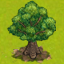
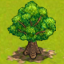
More flora, more beauty

diff --git a/Kingdom4/src/game/GameEngine.java b/Kingdom4/src/game/GameEngine.java
@@ -20,40 +20,40 @@ public class GameEngine extends Observable {
     private final char[][] world =
     		{
                 {'(','-','-','-','-','-','-','-','-','-','-','-','-','-','-','-','-','-','-','-','-','-','-','-','-','-','-','+','R','r',' ','Z'},
-                {'@',' ','Z','Y',' ',' ','Y','X',' ',' ','Z',' ',' ',' ',' ',' ','X',' ',' ','Y',' ','X',' ',' ',' ','Z',' ',' ','R','r','X',' '},
-                {'@',' ',' ','X',' ',' ','X',' ',' ',' ',' ','M','N',' ','Y',' ',' ',' ',' ',' ',' ',' ',' ',' ',' ',' ',' ','X','R','r','Y','X'},
-                {'@',' ',' ',' ',' ',' ',' ','Z',' ',' ',' ','O','P',' ',' ',' ','Z','I','J',' ','X','X',' ',' ',' ',' ','A','/','R','r',' ',' '},
-                {'@',' ',' ',' ','Z',' ',' ',' ',' ',' ',' ','a','c',' ',' ',' ',' ','K','L',' ','X','X','X',' ',' ','X','C','D','R','r',' ',' '},
-                {'@',' ',' ',' ','Z','Z',' ',' ',' ','X',' ',' ','g',' ',' ',' ',' ','g',' ','X','X','Y',' ',' ',' ','3','g','$','R','r','Y',' '},
-                {'@','X','X',' ',' ',' ','X',' ',' ',' ',' ',' ','g','X',' ',' ',' ','g',' ',' ','h','f','f','f','f','f','j',' ','R','r',' ','X'},
-                {'@','Y','X',' ',' ',' ','Y','X','X',' ',' ','Y','g',' ',' ',' ','X','g',' ','Z','g',' ',' ',' ',' ',' ',' ','Y','R','r',' ','X'},
-                {'@',' ',' ','X',' ',' ','E','F',' ',' ',' ',' ','m','f','f','f','f','l','f','f','o',' ','X','X',' ',' ','Z',' ','R','r','X','X'},
-                {'@',' ','X','X',' ',' ','G','H',' ',' ',' ',' ','g',' ',' ',' ',' ',' ',' ',' ','g','Y','X',' ',' ',' ',' ',' ','R','r',' ','Z'},
-                {'@',' ',' ',' ',' ',' ',' ','g','Z',' ',' ',' ','g',' ',' ','Z','Y','X',' ',' ','g',' ','Z',' ',' ',' ',' ',' ','R','r',' ',' '},
-                {'@','Z',' ',' ',' ',' ',' ','k','f','f','f','f','o',' ','X','X','X','Y',' ',' ','g',' ',' ',' ',' ',' ',' ',' ','R','r',' ',' '},
-                {'@',' ',' ',' ',' ',' ',' ',' ',' ',' ','X',' ','g',' ',' ','X','X',' ',' ',' ','g',' ',' ',' ','X',' ',' ',' ','R','r',' ',' '},
-                {'@','X','X',' ',' ',' ','X',' ',' ',' ',' ',' ','g',' ',' ',' ','X','X',' ',' ','g',' ',' ','Y','X',' ',' ','X','R','r',' ',' '},
-                {'@','X','Y',' ',' ',' ',' ',' ',' ',' ',' ',' ','g',' ','X','X',' ',' ','h','f','j',' ',' ',' ',' ',' ',' ','Z','R','r',' ',' '},
-                {'@',' ','Y',' ','Z','X','X','V','W',' ',' ',' ','g',' ',' ','X',' ',' ','g',' ','X','X',' ',' ',' ',' ',' ',' ','R','r','X',' '},
-                {'@',' ',' ',' ',' ','X','X','%','#',' ',' ',' ','g',' ',' ',' ',' ',' ','g','Y',' ',' ',' ',' ',' ',' ',' ','X','R','r','Y',' '},
-                {'@',' ',' ',' ',' ',' ','4','g','X','X','Z','Z','g','Z','Z',' ',' ','Z','g',' ',' ',' ',' ',' ',' ','Z',' ',' ','R','r',' ','Z'},
-                {'@',' ',' ',' ',' ',' ',' ','g',' ','Y','Z','h','l','i','Z',' ',' ','X','g','Z',' ',' ','X',' ',' ',' ','X',' ','R','r',' ','Z'},
-                {'@','Z','Q','S','X','X','Y','m','f','f','f','o','p','m','f','f','f','f','j','Y',' ',' ','Z',' ',' ',' ',' ','X','R','r','Y',' '},
+                {'@',' ','Z','Y','z',' ','Y','x',' ',' ','Z',' ',' ',' ',' ',' ','x','z',' ','Y',' ','X',' ','z',' ','Z',' ',' ','R','r','X',' '},
+                {'@',' ',' ','X',' ',' ','X',' ',' ',' ',' ','M','N',' ','Y',' ',' ','z',' ',' ',' ',' ',' ',' ',' ',' ',' ','x','R','r','Y','X'},
+                {'@',' ',' ',' ',' ',' ',' ','Z',' ',' ',' ','O','P',' ',' ',' ','Z','I','J',' ','X','x','z',' ',' ',' ','A','/','R','r','z',' '},
+                {'@','z',' ',' ','Z',' ',' ',' ',' ',' ',' ','a','c','z',' ',' ',' ','K','L',' ','x','x','X',' ','y','X','C','D','R','r',' ',' '},
+                {'@',' ',' ',' ','Z','Z',' ',' ',' ','X',' ',' ','g',' ',' ',' ',' ','g',' ','X','x','Y',' ',' ',' ','3','g','$','R','r','Y',' '},
+                {'@','X','x',' ',' ','z','X',' ',' ',' ',' ',' ','g','x',' ',' ',' ','g',' ',' ','h','f','f','f','f','f','j',' ','R','r',' ','X'},
+                {'@','Y','X','z',' ',' ','Y','x','X',' ',' ','Y','g',' ',' ',' ','X','g',' ','Z','g',' ',' ',' ',' ',' ','z','Y','R','r',' ','X'},
+                {'@',' ',' ','x',' ',' ','E','F',' ',' ',' ',' ','m','f','f','f','f','l','f','f','o',' ','X','X',' ',' ','Z',' ','R','r','X','X'},
+                {'@',' ','X','x',' ',' ','G','H',' ',' ',' ',' ','g',' ',' ',' ',' ',' ',' ',' ','g','Y','X',' ',' ',' ',' ',' ','R','r',' ','Z'},
+                {'@',' ',' ',' ',' ',' ',' ','g','Z',' ','z',' ','g',' ',' ','Z','Y','x',' ',' ','g',' ','Z','z',' ',' ',' ',' ','R','r',' ',' '},
+                {'@','Z',' ',' ',' ',' ',' ','k','f','f','f','f','o','z','x','X','x','Y',' ',' ','g',' ',' ',' ',' ',' ',' ',' ','R','r',' ',' '},
+                {'@',' ','z',' ',' ',' ',' ',' ',' ',' ','X',' ','g',' ',' ','X','x',' ',' ',' ','g','z',' ',' ','X',' ',' ',' ','R','r','z',' '},
+                {'@','X','X',' ',' ',' ','X',' ',' ',' ',' ',' ','g',' ',' ',' ','X','X',' ',' ','g',' ',' ','Y','x',' ','z','X','R','r',' ',' '},
+                {'@','x','Y',' ',' ',' ',' ',' ',' ','z','z',' ','g',' ','X','x',' ',' ','h','f','j',' ',' ',' ',' ',' ',' ','Z','R','r',' ',' '},
+                {'@','z','Y',' ','Z','x','X','V','W',' ',' ',' ','g',' ','z','x',' ',' ','g',' ','X','X',' ',' ',' ',' ',' ',' ','R','r','X',' '},
+                {'@',' ',' ',' ',' ','X','x','%','#',' ',' ',' ','g',' ',' ',' ',' ',' ','g','Y',' ',' ',' ',' ',' ',' ',' ','X','R','r','Y',' '},
+                {'@',' ',' ',' ',' ','z','4','g','X','x','Z','Z','g','Z','Z',' ',' ','Z','g',' ','z',' ',' ',' ',' ','Z',' ',' ','R','r',' ','Z'},
+                {'@',' ',' ',' ',' ',' ',' ','g',' ','Y','Z','h','l','i','Z',' ',' ','X','g','Z','z',' ','X',' ',' ',' ','x',' ','R','r',' ','z'},
+                {'@','Z','Q','S','X','y','Y','m','f','f','f','o','p','m','f','f','f','f','j','Y',' ',' ','Z',' ',' ',' ',' ','x','R','r','Y',' '},
                 {'@',' ','T','U','2',' ',' ','g',' ',' ','Z','k','n','j','Z',' ',' ',' ',' ',' ',' ','E','F',' ',' ',' ',' ',' ','R','r',' ',' '},
-                {'@',' ',' ','g',' ',' ',' ','g',' ',' ','Z','Z','g','Z','Z',' ',' ',' ','X',' ',' ','G','H',' ',' ',' ','X',' ','R','r',' ',' '},
+                {'@',' ',' ','g',' ',' ',' ','g',' ',' ','Z','Z','g','Z','Z',' ',' ','z','X',' ',' ','G','H',' ',' ',' ','X',' ','R','r',' ',' '},
                 {'@','X',' ','k','f','f','f','j',' ','I','J','X','g',' ',' ',' ',' ',' ',' ',' ',' ',' ','g',' ',' ',' ',' ',' ','R','r',' ','X'},
-                {'@','Z','X',' ','X','Y','X','Y',' ','K','L',' ','g',' ',' ','Y',' ',' ',' ','X','Y',' ','g',' ',' ',' ','Z','Z','R','r',' ','X'},
-                {'@','X','X','Z',' ','X','X','X','X','g',' ',' ','g',' ',' ',' ',' ',' ',' ',' ','X','Z','g','Z',' ',' ','Z','Y','R','r','Z',' '},
-                {'@','Y',' ','X',' ','X','X',' ','Y','k','f','f','l','f','f','f','f','f','f','f','f','f','l','f','f','f','f','1','B','b','f','f'},
-                {'@','X',' ',' ',' ','Z',' ',' ',' ','X',' ','X',' ',' ',' ',' ',' ',' ',' ',' ',' ',' ',' ',' ',' ',' ',' ',' ','R','r',' ','X'},
-                {'@','Z','X',' ','X','X','X','Y','X','X','Z','X',' ',' ',' ','Y',' ',' ','Z','X','X',' ',' ',' ',' ',' ','X','Z','R','r',' ','Y'},
-                {'@','X','X','Z','Y','Y','X','X',' ',' ',' ','Y','X','X','Y','X',' ',' ',' ',' ',' ',' ',' ',' ',' ',' ','X','Y','R','r','Z','Z'},
-                {'@','Y','X','X',' ',' ',' ','Z','X','X',' ',' ',' ','Z','X','Y','Z',' ',' ',' ',' ',' ',' ','Z',' ',' ',' ','Y','R','r',' ',' '},
-                {'@','!','X','X',' ','X','Z','X',' ','Y','X','Y','X','Z','X','X','X',' ',' ',' ',' ',' ',' ',' ',' ',' ',' ',' ','R','r',' ',' '},
-                {'@',' ',' ','X',' ','X','Z',' ',' ','Z','Z','Z','X','Y',' ','X',' ','Z',' ',' ',' ','Y','Z','X',' ',' ',' ',' ','R','r',' ','X'},
-                {'@','X',' ',' ','Z','X','X','Y',' ','X',' ','X','X','Z',' ',' ','X','Z','X',' ','Z','X',' ',' ','Z',' ','Y','X','R','r','X','X'},
-                {'@','X','X','X','X','X','X','Z',' ','X',' ',' ',' ',' ','Y',' ',' ',' ','X',' ',' ','X',' ',' ',' ','§','Y','X','R','r','X','X'},
-                {')','=','=','=','=','=','=','=','=','=','=','=','=','=','=','=','=','=','=','=','=','=','=','=','=','=','=','&','R','r','X','X'}
+                {'@','Z','X',' ','x','Y','X','Y',' ','K','L',' ','g',' ',' ','Y',' ',' ',' ','x','Y',' ','g',' ',' ',' ','Z','Z','R','r',' ','x'},
+                {'@','x','x','Z',' ','x','X','x','X','g',' ',' ','g','z',' ',' ',' ',' ',' ',' ','X','Z','g','Z',' ',' ','z','Y','R','r','Z',' '},
+                {'@','y',' ','X',' ','X','X','z','Y','k','f','f','l','f','f','f','f','f','f','f','f','f','l','f','f','f','f','1','B','b','f','f'},
+                {'@','X',' ',' ',' ','Z',' ',' ',' ','X',' ','x',' ',' ',' ',' ',' ',' ',' ',' ',' ',' ',' ',' ',' ',' ',' ',' ','R','r',' ','X'},
+                {'@','Z','X',' ','X','X','x','Y','x','x','Z','X',' ',' ',' ','Y',' ',' ','Z','X','X',' ',' ',' ',' ',' ','x','Z','R','r',' ','Y'},
+                {'@','x','X','z','Y','Y','x','X',' ',' ','z','Y','X','X','Y','X',' ',' ',' ',' ',' ',' ',' ',' ',' ',' ','x','Y','R','r','z','Z'},
+                {'@','Y','x','X',' ',' ',' ','Z','X','x',' ',' ',' ','Z','x','Y','z',' ',' ',' ',' ',' ',' ','z',' ',' ',' ','Y','R','r',' ',' '},
+                {'@','!','x','x',' ','X','y','X',' ','Y','X','Y','X','Z','x','x','X',' ',' ',' ','z',' ',' ',' ',' ',' ',' ',' ','R','r',' ',' '},
+                {'@',' ',' ','X',' ','X','z',' ',' ','Z','z','Z','X','Y',' ','X',' ','Z',' ',' ',' ','Y','Z','X',' ',' ',' ',' ','R','r',' ','X'},
+                {'@','x',' ',' ','Z','x','X','Y',' ','X',' ','x','x','Z',' ',' ','X','Z','X',' ','Z','x',' ',' ','Z',' ','Y','X','R','r','X','x'},
+                {'@','X','x','X','x','x','X','Z',' ','X',' ','z',' ',' ','y',' ',' ',' ','x',' ',' ','X','y',' ',' ','§','Y','x','R','r','X','x'},
+                {')','=','=','=','=','=','=','=','=','=','=','=','=','=','=','=','=','=','=','=','=','=','=','=','=','=','=','&','R','r','x','X'}
         };
 
     private final int tileSize = 64 ;

diff --git a/Kingdom4/src/game/World.java b/Kingdom4/src/game/World.java
@@ -283,6 +283,15 @@ public class World {
                 else if (world[x][y] == 'c') {
                     addToPane(x, y, items.get(59), pane);
                 }
+                else if (world[x][y] == 'x') {
+                    addToPane(x, y, items.get(60), pane);
+                }
+                else if (world[x][y] == 'y') {
+                    addToPane(x, y, items.get(61), pane);
+                }
+                else if (world[x][y] == 'z') {
+                    addToPane(x, y, items.get(62), pane);
+                }
                 else {
                     addToPane(x, y, items.get(0), pane);
                 }
